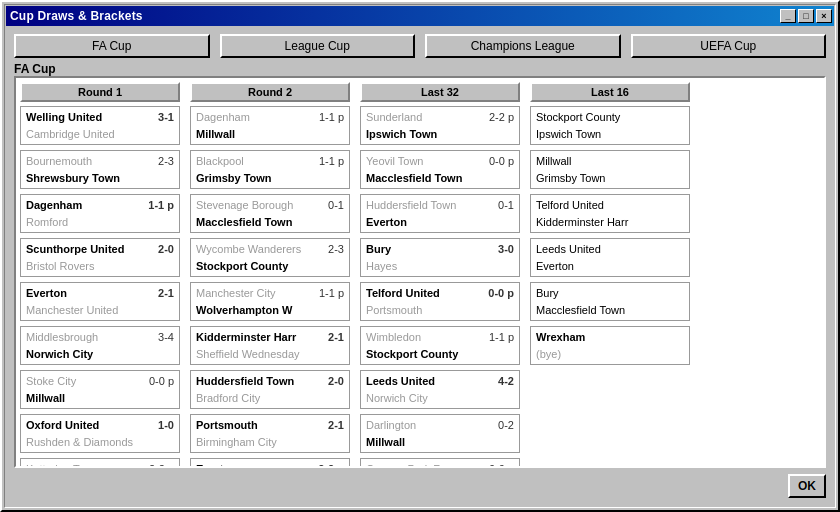
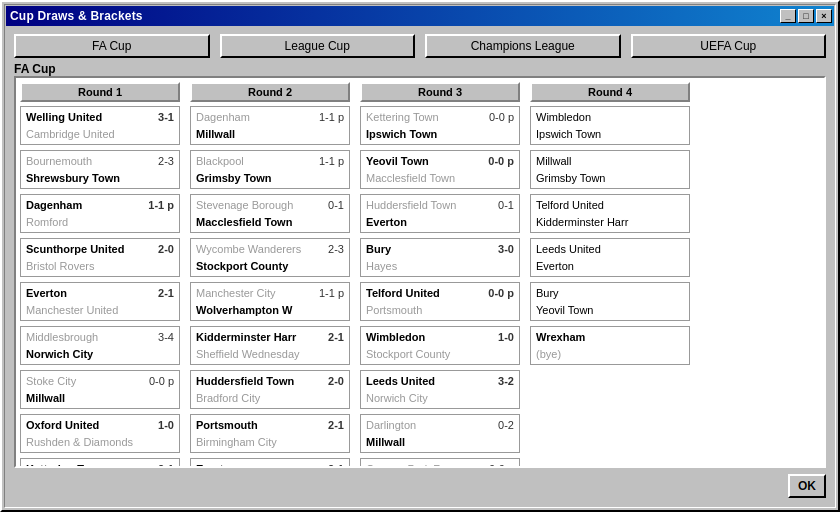
90s European format (64-team), Super Cup/Shield, Simulate, overflow fixes
- Champions League & UEFA Cup now run the 90s pre-group knockout: 64 teams
  (Round of 64 -> 32 -> 16 -> QF -> SF -> Final). Continental pool expanded
  (~134 clubs) so brackets fill with real European sides, not random ones.
- European access tightened: only top Premier finishers + FA/League Cup winners
  qualify (season 1 seeds the strongest Premier clubs).
- The UEFA Cup final, then the Champions League final, now close the season;
  two curtain-raisers open the next: Community Shield (champions v FA Cup) and
  European Super Cup (CL v UEFA winners), built from last season's results.
- New "Simulate" button beside "Action": instant result, straight to the
  round-up (no animation).
- Loan interest compounds the debt weekly (already), now documented.
- Text-overflow audit across every screen: flex children get min-width:0 so
  data grids scroll instead of pushing layouts wide; match event log wraps.
  Headless check confirms no overflow on any screen.

Tests: 105 checks (64-team Europe, round naming, Super Cup) - all passing,
stable. Screenshots + README updated.

Claude-Session: https://claude.ai/code/session_01LKwX3YFtqmpjivmLLDgi57

diff --git a/js/engine.js b/js/engine.js
@@ -489,11 +489,12 @@
   function hashId(str) { let h = 0; for (let i = 0; i < str.length; i++) h = (h * 131 + str.charCodeAt(i)) | 0; return h >>> 0; }
   function shuffle(arr, rng) { for (let i = arr.length - 1; i > 0; i--) { const j = Math.floor(rng() * (i + 1)); const t = arr[i]; arr[i] = arr[j]; arr[j] = t; } return arr; }
   function cupRoundName(entering, idx) {
-    if (entering <= 2) return 'Final';
+    if (entering === 2) return 'Final';
     if (entering <= 4) return 'Semi-finals';
     if (entering <= 8) return 'Quarter-finals';
-    if (entering <= 16) return 'Last 16';
-    if (entering <= 32) return 'Last 32';
+    if (entering === 16) return 'Round of 16';
+    if (entering === 32) return 'Round of 32';
+    if (entering === 64) return 'Round of 64';
     return 'Round ' + (idx + 1);
   }
   function buildCupRound(cup, clubIdxs, rng) {
@@ -616,23 +617,42 @@
       if (def.type === 'all') parts = pyramid.slice();                  // FA / League Cup: the whole pyramid
       else {
         const eng = (def.type === 'euroC' ? s.euroQual.champions : s.euroQual.uefa) || [];
-        const target = def.type === 'euroC' ? 32 : 24;
-        const need = Math.max(0, target - eng.length);
+        const need = Math.max(0, 64 - eng.length);                      // 64-team knockout (Round of 64 -> Final)
         parts = eng.concat(foreign.slice(fcur, fcur + need)); fcur += need;
       }
       if (parts.length >= 2) s.cups[def.id] = initCup(def, parts, rng);
     });
+    // one-off curtain-raisers from last season's winners (season 2 onwards)
+    const pv = s.prev;
+    if (pv) {
+      if (pv.premChamp != null && pv.faCup != null) {
+        const opp = pv.faCup !== pv.premChamp ? pv.faCup : pv.premRunnerUp;
+        if (opp != null && opp !== pv.premChamp) s.cups.shield = initCup({ id: 'shield', name: 'Community Shield', type: 'oneoff' }, [pv.premChamp, opp], rng);
+      }
+      if (pv.ucl != null && pv.uefa != null && pv.ucl !== pv.uefa) {
+        s.cups.supercup = initCup({ id: 'supercup', name: 'European Super Cup', type: 'oneoff' }, [pv.ucl, pv.uefa], rng);
+      }
+    }
     s.calendar = buildCalendar(s);
   }
   function buildCalendar(s) {
     const entries = [], L = totalRounds(s);
     for (let r = 0; r < L; r++) entries.push({ key: r * 1000, comp: 'league', round: r, leg: 0 });
     Object.keys(s.cups).forEach((id, ci) => {
-      const units = cupUnits(s.cups[id]);          // 1 or 2 matchdays per round (two-legged ties)
-      units.forEach((u, k) => {
-        const boundary = Math.min(L - 1, Math.floor((k + 1) * L / (units.length + 1)));
-        entries.push({ key: boundary * 1000 + 50 + ci * 8 + k, comp: id, round: u.round, leg: u.leg });
-      });
+      const cup = s.cups[id], units = cupUnits(cup), lastRound = cup.totalRounds - 1;
+      if (cup.type === 'oneoff') {                  // Community Shield / Super Cup: curtain-raisers
+        entries.push({ key: -2000 + ci, comp: id, round: 0, leg: 0 });
+      } else if (cup.twoLeg) {                       // European cups: finals AFTER the league (UEFA, then Champions)
+        units.forEach((u, k) => {
+          if (u.round === lastRound) entries.push({ key: (L + (id === 'uefa' ? 1 : 2)) * 1000, comp: id, round: u.round, leg: 0 });
+          else { const b = Math.min(L - 2, Math.floor((k + 1) * (L - 2) / units.length)); entries.push({ key: b * 1000 + 50 + ci * 8 + k, comp: id, round: u.round, leg: u.leg }); }
+        });
+      } else {                                       // national cups spread through the season
+        units.forEach((u, k) => {
+          const b = Math.min(L - 1, Math.floor((k + 1) * L / (units.length + 1)));
+          entries.push({ key: b * 1000 + 50 + ci * 8 + k, comp: id, round: u.round, leg: u.leg });
+        });
+      }
     });
     entries.sort((a, b) => a.key - b.key);
     return entries.map(e => ({ comp: e.comp, round: e.round, leg: e.leg }));
@@ -885,6 +905,16 @@
     });
     // next season's European qualification, from this season's standings
     s.euroQual = computeEuroQual(s, snaps);
+
+    // remember last season's winners for the curtain-raisers (Shield / Super Cup)
+    const idxByName = {}; s.clubs.forEach((c, i) => { idxByName[c.name] = i; });
+    s.prev = {
+      premChamp: snaps[0][0] ? idxByName[snaps[0][0].name] : null,
+      premRunnerUp: snaps[0][1] ? idxByName[snaps[0][1].name] : null,
+      faCup: s.cups.fa ? s.cups.fa.winner : null,
+      ucl: s.cups.champions ? s.cups.champions.winner : null,
+      uefa: s.cups.uefa ? s.cups.uefa.winner : null
+    };
 
     // promotion / relegation
     const moves = [];

diff --git a/test/run.js b/test/run.js
@@ -76,9 +76,10 @@ check('sign unlisted works', su.ok, su.msg);
 /* ---- play a full season --------------------------------------------- */
 section('Play a full season');
 let leagueMatches = 0, cupMatches = 0, goalsSeen = 0, guardFS = 0;
-while (s.season === 1 && guardFS++ < 250) {
+while (guardFS++ < 300) {
+  const before = s.season;
   const r = step(s);
-  if (!r) break;
+  if (!r || s.season !== before) break;     // a step can roll the season (end-of-season euro finals)
   if (r.comp === 'league') leagueMatches++; else cupMatches++;
   goalsSeen += r.hg + r.ag;
 }
@@ -204,7 +205,7 @@ check('user contested a cup tie', sawCup);
 check('honours recorded after a season', cg.honours.length >= 1, cg.honours.length);
 check('honours list league 1st/2nd/3rd', cg.honours[0].divisions.every(d => d.first && d.second && d.third));
 check('every cup produced a winner', cg.honours[0].cups.length >= 2 && cg.honours[0].cups.every(c => c.winner && c.winner !== '—'), JSON.stringify(cg.honours[0].cups));
-check('cups rebuilt for the new season', E.cupsSummary(cg).length >= 2 && E.cupsSummary(cg).every(c => c.winner == null));
+check('league/euro cups rebuilt for the new season', ['fa', 'leaguecup', 'champions', 'uefa'].every(id => cg.cups[id] && cg.cups[id].winner == null));
 
 /* ---- finances, history, ex-players, Europe, match box score ---------- */
 section('Finances, history, ex-players & Europe');
@@ -217,8 +218,8 @@ check('repayLoan reduces debt', rl.ok && fx.debt === 300000, rl.msg);
 const exBefore = fx.exPlayers.length;
 E.sellPlayer(fx, E.user(fx).players[E.user(fx).players.length - 1].id);
 check('selling records an ex-player', fx.exPlayers.length === exBefore + 1);
-check('European Cup has 32 entrants', fx.cups.champions && fx.cups.champions.participants.length === 32, fx.cups.champions && fx.cups.champions.participants.length);
-check('European Cup includes foreign clubs', fx.cups.champions.participants.some(ci => fx.clubs[ci].foreign));
+check('Champions League has 64 entrants', fx.cups.champions && fx.cups.champions.participants.length === 64, fx.cups.champions && fx.cups.champions.participants.length);
+check('Champions League includes foreign clubs', fx.cups.champions.participants.some(ci => fx.clubs[ci].foreign));
 E.prepareNextUserMatch(fx);
 const m = E.playUserMatch(fx);
 check('match carries box-score stats', !!m.stats && typeof m.stats.possHome === 'number');
@@ -249,8 +250,12 @@ E.prepareNextUserMatch(eu); E.commitUserResult(eu, E.playUserMatch(eu));
 check('loan debt grows with interest', eu.debt > debtBefore, debtBefore + ' -> ' + eu.debt);
 const eu2 = E.newGame(246810);
 let ge = 0; const es0 = eu2.season; while (eu2.season === es0 && ge++ < 400) step(eu2);
+check('European knockout starts at Round of 64', eu.cups.champions.rounds[0].name === 'Round of 64', eu.cups.champions.rounds[0].name);
 const clRec = eu2.honours[0].cups.find(c => c.name === 'Champions League');
 check('Champions League completes with a winner', !!clRec && clRec.winner && clRec.winner !== '—', clRec && clRec.winner);
+check('last-season winners tracked for curtain-raisers', eu2.prev && eu2.prev.ucl != null && eu2.prev.uefa != null);
+check('European Super Cup created in season 2', !!eu2.cups.supercup, Object.keys(eu2.cups).join(','));
+check('Super Cup contestants are the two European winners', !!eu2.cups.supercup && eu2.cups.supercup.participants.length === 2);
 
 /* ---- save / load ----------------------------------------------------- */
 section('Save / load');

diff --git a/js/data.js b/js/data.js
@@ -138,17 +138,41 @@
     'Brentford', 'Cardiff City'
   ];
 
-  // continental clubs that fill out the European competitions (knockout only)
+  // continental clubs that fill out the European competitions (knockout only).
+  // A 64-team Champions League + 64-team UEFA Cup need a deep pool.
   const FOREIGN_CLUBS = [
-    'Real Madrid', 'Barcelona', 'Atletico Madrid', 'Valencia', 'Deportivo',
-    'Juventus', 'AC Milan', 'Inter Milan', 'AS Roma', 'Lazio', 'Parma', 'Fiorentina',
-    'Bayern Munich', 'Borussia Dortmund', 'Bayer Leverkusen', 'Schalke 04', 'Werder Bremen',
-    'Ajax', 'PSV Eindhoven', 'Feyenoord', 'FC Porto', 'Benfica', 'Sporting Lisbon',
-    'Marseille', 'AS Monaco', 'Lyon', 'Paris St Germain', 'Bordeaux',
-    'Celtic', 'Rangers', 'Galatasaray', 'Fenerbahce', 'Besiktas',
-    'Anderlecht', 'Club Brugge', 'Steaua Bucharest', 'Dynamo Kyiv', 'Spartak Moscow',
-    'CSKA Moscow', 'Red Star Belgrade', 'Panathinaikos', 'Olympiacos', 'Rosenborg',
-    'Sparta Prague', 'Dinamo Zagreb', 'Shakhtar Donetsk', 'Brondby', 'Vitesse'
+    // Spain
+    'Real Madrid', 'Barcelona', 'Atletico Madrid', 'Valencia', 'Deportivo', 'Real Sociedad', 'Athletic Bilbao',
+    'Real Betis', 'Sevilla', 'Celta Vigo', 'Zaragoza', 'Espanyol', 'Tenerife', 'Mallorca', 'Valladolid',
+    // Italy
+    'Juventus', 'AC Milan', 'Inter Milan', 'AS Roma', 'Lazio', 'Parma', 'Fiorentina', 'Napoli', 'Sampdoria',
+    'Torino', 'Udinese', 'Bologna', 'Vicenza', 'Cagliari', 'Perugia', 'Brescia',
+    // Germany
+    'Bayern Munich', 'Borussia Dortmund', 'Bayer Leverkusen', 'Schalke 04', 'Werder Bremen', 'Stuttgart',
+    'Hamburg', 'Kaiserslautern', 'Moenchengladbach', 'FC Cologne', 'Hertha Berlin', 'Wolfsburg', 'Freiburg',
+    // France
+    'Marseille', 'AS Monaco', 'Lyon', 'Paris St Germain', 'Bordeaux', 'Auxerre', 'Nantes', 'RC Lens',
+    'Montpellier', 'Strasbourg', 'FC Metz', 'Bastia', 'Rennes', 'Guingamp',
+    // Netherlands
+    'Ajax', 'PSV Eindhoven', 'Feyenoord', 'Vitesse', 'Roda JC', 'FC Twente', 'Heerenveen', 'Willem II', 'AZ Alkmaar',
+    // Portugal
+    'FC Porto', 'Benfica', 'Sporting Lisbon', 'Boavista', 'Vitoria Guimaraes', 'SC Braga', 'Maritimo',
+    // Belgium
+    'Anderlecht', 'Club Brugge', 'Standard Liege', 'Genk', 'Lierse', 'AA Gent',
+    // Scotland
+    'Celtic', 'Rangers', 'Hearts', 'Aberdeen', 'Hibernian', 'Kilmarnock', 'Dundee United',
+    // Turkey / Greece
+    'Galatasaray', 'Fenerbahce', 'Besiktas', 'Trabzonspor', 'Panathinaikos', 'Olympiacos', 'AEK Athens', 'PAOK',
+    // Russia / Ukraine
+    'Spartak Moscow', 'CSKA Moscow', 'Dynamo Kyiv', 'Shakhtar Donetsk', 'Lokomotiv Moscow', 'Dynamo Moscow', 'Zenit',
+    // Central / Eastern Europe
+    'Steaua Bucharest', 'Rapid Bucharest', 'Red Star Belgrade', 'Partizan Belgrade', 'Dinamo Zagreb', 'Hajduk Split',
+    'Sparta Prague', 'Slavia Prague', 'Legia Warsaw', 'Widzew Lodz', 'Ferencvaros', 'Slovan Bratislava',
+    // Scandinavia
+    'Rosenborg', 'Brondby', 'FC Copenhagen', 'IFK Gothenburg', 'Helsingborg', 'Molde', 'AaB Aalborg',
+    // Alpine / others
+    'Grasshoppers', 'FC Basel', 'Servette', 'Sturm Graz', 'Rapid Vienna', 'Austria Vienna', 'Maccabi Haifa',
+    'APOEL', 'Dinamo Tbilisi', 'Levski Sofia', 'CSKA Sofia', 'Maccabi Tel Aviv', 'Hapoel Tel Aviv'
   ];
 
   const POSITIONS = ['G', 'D', 'M', 'A'];

diff --git a/css/style.css b/css/style.css
@@ -100,6 +100,7 @@ table.grid.cyan tr.sel td{background:#8b0000; color:#fff}
 
 /* ---- layout helpers ------------------------------------------------- */
 .row{display:flex; gap:10px}
+.row>*{min-width:0}   /* let flex children shrink so data grids scroll instead of overflowing */
 .col{display:flex; flex-direction:column; gap:6px}
 .spacer{flex:1}
 .small{font-size:11px}
@@ -152,7 +153,7 @@ input[type=range]{flex:1}
 table.grid.bx{width:100%; background:var(--yellow)}
 table.grid.bx td{padding:3px 6px; border-bottom:1px solid #e6e6b0}
 .bxlog{font-size:11px; background:#fff; min-height:100%}
-.bxlog .ev{padding:1px 5px; border-bottom:1px solid #eee; white-space:nowrap; overflow:hidden; text-overflow:ellipsis}
+.bxlog .ev{padding:1px 5px; border-bottom:1px solid #eee; white-space:normal; word-break:break-word}
 .bxlog .ev .min{display:inline-block; width:24px; color:#555; text-align:right; margin-right:6px}
 .bxlog .goal{font-weight:bold}
 .bxlog .yc{color:#a8860b}.bxlog .rc{color:#c00000}.bxlog .sub{color:#0a7a3a}.bxlog .inj{color:#b06000}

diff --git a/js/ui.js b/js/ui.js
@@ -446,6 +446,13 @@
     $('btn-bestxi').onclick = () => { const b = E.bestXI(E.user(S)); S.selection.xi = b.xi; S.selection.subs = b.subs; renderTeam(); };
     $('btn-clear').onclick = () => { S.selection.xi = []; S.selection.subs = []; renderTeam(); };
     $('btn-action').onclick = startMatch;
+    $('btn-simulate').onclick = () => {           // instant result, no animation
+      if (S.selection.xi.length !== 11) return toast('Pick exactly 11 starters (you have ' + S.selection.xi.length + ').');
+      if (S.selection.subs.length < 1) return toast('Pick at least one substitute.');
+      const m = E.playUserMatch(S); if (!m) return;
+      E.commitUserResult(S, m);
+      renderRoundup(); show('screen-roundup'); flushNotices(); save();
+    };
     $('btn-history').onclick = () => {           // head-to-head vs the upcoming opponent
       const o = E.nextOpponent(S);
       if (!o) return toast('No upcoming match.');

diff --git a/index.html b/index.html
@@ -125,8 +125,9 @@
             </table>
           </div>
           <div class="row" style="align-items:center">
-            <div class="small">Pick 11 players + at least 1 substitute</div>
+            <div class="small">Pick 11 + a sub</div>
             <div class="spacer"></div>
+            <button id="btn-simulate" style="height:30px">Simulate</button>
             <button id="btn-action" style="height:30px; font-weight:bold">Action</button>
           </div>
         </div>

diff --git a/README.md b/README.md
@@ -60,7 +60,8 @@ It runs with **zero runtime dependencies** — plain HTML, CSS and JavaScript.
   A live **box score** sits alongside (possession, shots, on target, corners,
   fouls) with a rolling **match-events tabellino**: every **GOAL**, **booking**
   (yellows and reds), **injury** and **automatic substitution**. Adjustable
-  **Speed** and "Skip to result"; the animation **freezes at full time**.
+  **Speed** and "Skip to result"; the animation **freezes at full time**. Prefer
+  numbers? **Simulate** returns the result instantly without the animation.
 - **A dynamic transfer market** — player skill runs **20–99** (with rare 90+
   stars); listings churn through the season. Filter by position / European /
   sort by skill, name search, **Bid** within budget, **Sign Unlisted Player**,
@@ -80,13 +81,17 @@ It runs with **zero runtime dependencies** — plain HTML, CSS and JavaScript.
   across all leagues**, plus a **Classified Results** screen listing a full
   round of fixtures with the scorers for every club.
 - **Cup competitions, with brackets** — the **FA Cup** and **League Cup** (all
-  86 clubs) plus the **Champions League** and **UEFA Cup**. The European cups add
-  a field of **continental clubs** (knockout only — no group stage) to the
-  English qualifiers: only the **top Premier Division finishers** plus the
-  **FA Cup and League Cup winners** qualify. European ties are **two-legged
-  (home & away) except the final**, decided on **aggregate** (away goals, then
-  penalties). View the full **draw/bracket** for every cup — all results, not
-  just yours — and your own ties play out in the match engine.
+  86 clubs) plus the **Champions League** and **UEFA Cup**, run in the 90s
+  pre-group-stage format: **64-team knockouts** (Round of 64 → 32 → 16 →
+  quarters → semis → **final**). The European cups add a deep field of
+  **continental clubs** to the English qualifiers — and only the **top Premier
+  Division finishers** plus the **FA Cup and League Cup winners** qualify (no
+  random teams). European ties are **two-legged except the final**, decided on
+  **aggregate** (away goals, then penalties); the **UEFA Cup final then the
+  Champions League final close the season**. Two curtain-raisers open the next
+  one: the **Community Shield** (league champions v FA Cup winners) and the
+  **European Super Cup** (Champions League v UEFA Cup winners). View the full
+  **draw/bracket** for every cup — all results, not just yours.
 - **Results round-up** — after every game you play, a screen rounds up the
   results of *every* competition simulated since your last match, with one click
   through to the **tables** or the **cup brackets**.
@@ -123,7 +128,7 @@ as that club by global index (0–87), skipping the chooser.
 ## Develop / verify
 
 ```bash
-npm test             # head-less engine self-test, 101 checks (seasons, cups, finances, retirement, save/load)
+npm test             # head-less engine self-test, 105 checks (seasons, cups, finances, retirement, save/load)
 npm run shots        # drives the game in headless Chrome and writes shots/*.png
 ```
 
